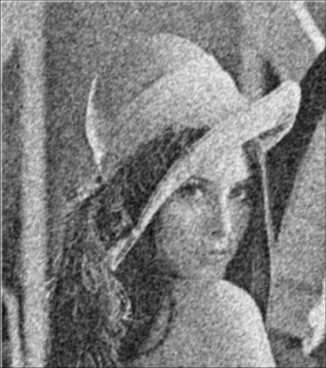
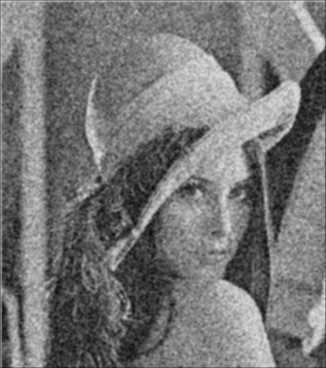
better Conv

diff --git a/utils/convolution.js b/utils/convolution.js
@@ -1,25 +1,24 @@
 export default function Conv(grayScale, kernel, param = 1) {
     const {data, width, height} = grayScale
-    const newWidth = width - 2
-    const newHeight = height - 2
-    const r = parseInt(Math.sqrt(kernel.length))
+    const r = parseInt(Math.sqrt(kernel.length)/2)
+    const newWidth = width - 2 * r
+    const newHeight = height -  2 * r
+
     const isConv = {
         width: newWidth,
         height: newHeight,
         data: Buffer.alloc(newHeight * newWidth)
     }
     for (let i = 0; i < newHeight * newWidth; i ++){
+        let sum = 0
         let index = parseInt(i/newWidth) * width + i % newWidth + width + 1
-        isConv.data[i] =
-            (data[index - width - 1] * kernel[0] +
-            data[index - width    ] * kernel[1] +
-            data[index - width + 1] * kernel[2] +
-            data[index         - 1] * kernel[3] +
-            data[index            ] * kernel[4] +
-            data[index         + 1] * kernel[5] +
-            data[index + width - 1] * kernel[6] +
-            data[index + width    ] * kernel[7] +
-            data[index + width - 1] * kernel[8])/param
+        for (let j = 0; j < 2 * r + 1; j ++){
+            for (let k = -r; k < r + 1; k ++){
+                sum += data[index - (j - r) * width - k] * kernel[j]
+            }
+        }
+
+        isConv.data[i] = sum*param
     }
     return isConv
 

diff --git a/utils/kernels.js b/utils/kernels.js
@@ -3,6 +3,25 @@ const gaussian = [
     0.118318 , 0.147761, 0.118318,
     0.0947416, 0.118318, 0.0947416
 ]
+
+const bigGaussian = [
+    1, 4,  7,  4,  1,
+    4, 16, 26, 16, 4,
+    7, 26, 41, 26, 7,
+    4, 16, 26, 16, 4,
+    1, 4,  7,  4,  1
+]
+
+const superGaussian = [
+    0.00000067,	0.00002292,	0.00019117,	0.00038771,	0.00019117,	0.00002292,	0.00000067,
+    0.00002292,	0.00078633,	0.00655965,	0.01330373,	0.00655965,	0.00078633,	0.00002292,
+    0.00019117,	0.00655965,	0.05472157,	0.11098164,	0.05472157,	0.00655965,	0.00019117,
+    0.00038771,	0.01330373,	0.11098164,	0.22508352,	0.11098164,	0.01330373,	0.00038771,
+    0.00019117,	0.00655965,	0.05472157,	0.11098164,	0.05472157,	0.00655965,	0.00019117,
+    0.00002292,	0.00078633,	0.00655965,	0.01330373,	0.00655965,	0.00078633,	0.00002292,
+    0.00000067,	0.00002292,	0.00019117,	0.00038771,	0.00019117,	0.00002292,	0.00000067
+]
+
 const xGrad = [
      1,  2,  1,
      0,  0,  0,
@@ -18,4 +37,6 @@ export {
     xGrad,
     yGrad,
     gaussian,
+    bigGaussian,
+    superGaussian
 }

diff --git a/main.js b/main.js
@@ -12,13 +12,13 @@ let rawImageData = jpeg.decode(jpegData);
 const {width, height} = rawImageData
 
 let img = Padding(toGrayScale(rawImageData, width, height))
-img = Conv(img, kernel.gaussian)
+img = Conv(img, kernel.superGaussian, 150)
 // img = Conv(img, kernel.xGrad)
 console.log(img)
 
 img = toGrayImg(img)
 
 let newJpegEncoded = jpeg.encode(img)
-fs.writeFileSync('./output/33gaussian.jpg', newJpegEncoded.data)
+fs.writeFileSync('./output/33superGaussian.jpg', newJpegEncoded.data)
 //
 // checkImg('./output/aa.jpg')
